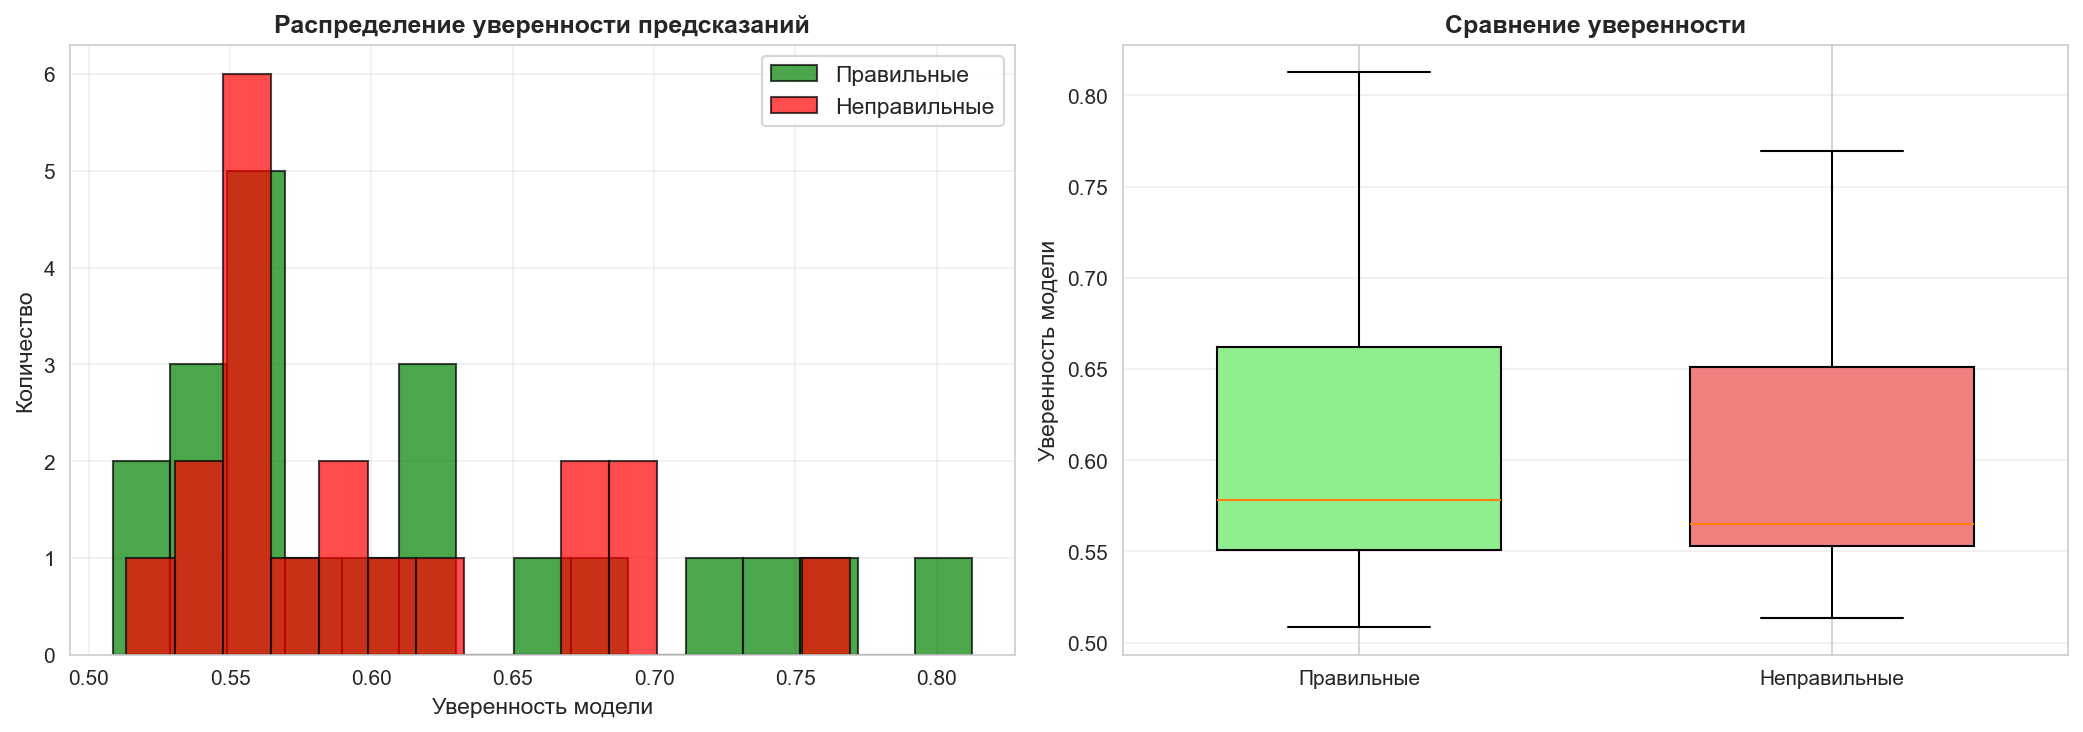
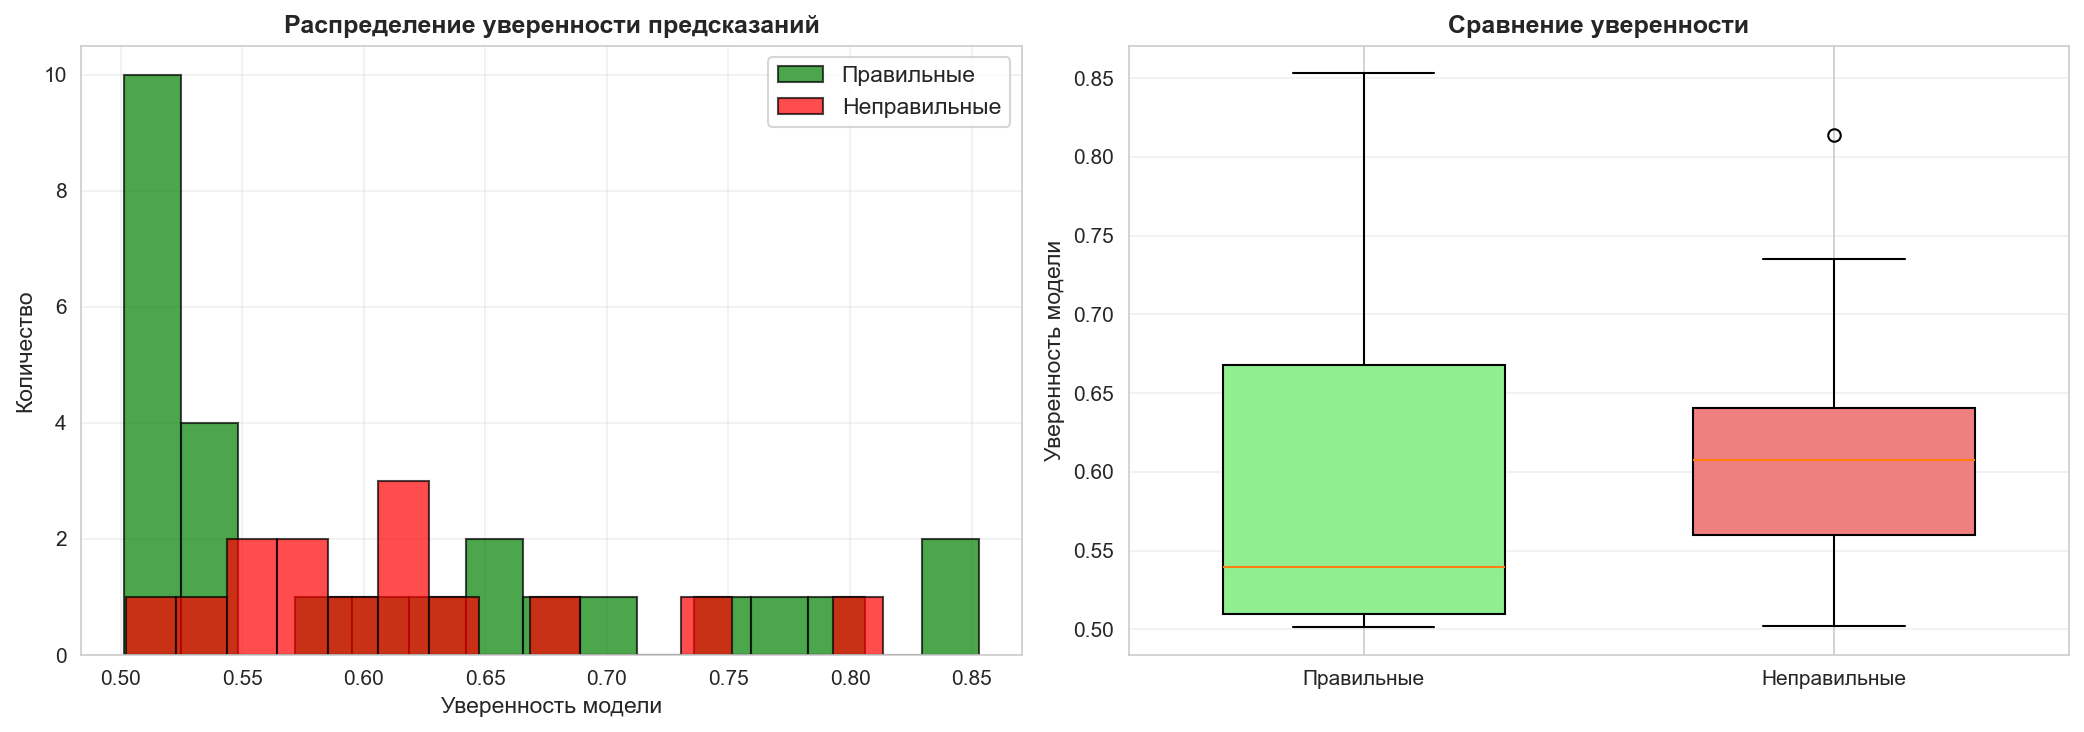
Обновить графики и цифры анализа результатов после исправления

diff --git a/ОТЧЕТ.md b/ОТЧЕТ.md
@@ -211,27 +211,27 @@ Output (2 classes: dirty, cleaned)
 ![Confusion Matrix](_inspect/confusion_matrix.png)
 
 **Анализ:**
-- True Negatives (dirty → dirty): 9
-- False Positives (dirty → cleaned): 11
-- False Negatives (cleaned → dirty): 8  
-- True Positives (cleaned → cleaned): 12
+- True Negatives (dirty → dirty): 8
+- False Positives (dirty → cleaned): 12
+- False Negatives (cleaned → dirty): 2  
+- True Positives (cleaned → cleaned): 18
 
 **Выводы:**
-- Модель немного лучше распознает чистые тарелки (recall=60%)
-- Для грязных тарелок recall=45% - модель чаще ошибается
-- Precision примерно одинаковая для обоих классов (~52%)
+- Модель заметно лучше распознает чистые тарелки (recall=90%)
+- Для грязных тарелок recall=40% - модель часто принимает их за чистые
+- Precision выше для грязных тарелок (80%), чем для чистых (60%)
 
 ### 6.3 Детальный отчет по классификации
 
 ```
               precision    recall  f1-score   support
 
-       dirty      0.529     0.450     0.486        20
-     cleaned      0.522     0.600     0.558        20
+       dirty      0.800     0.400     0.533        20
+     cleaned      0.600     0.900     0.720        20
 
-    accuracy                          0.525        40
-   macro avg      0.526     0.525     0.522        40
-weighted avg      0.526     0.525     0.522        40
+    accuracy                          0.650        40
+   macro avg      0.700     0.650     0.627        40
+weighted avg      0.700     0.650     0.627        40
 ```
 
 ### 6.4 Распределение уверенности предсказаний
@@ -239,8 +239,8 @@ weighted avg      0.526     0.525     0.522        40
 ![Распределение уверенности](_inspect/confidence_distribution.png)
 
 **Статистика:**
-- Средняя уверенность (правильные предсказания): 0.611
-- Средняя уверенность (неправильные предсказания): 0.601
+- Средняя уверенность (правильные предсказания): 0.604
+- Средняя уверенность (неправильные предсказания): 0.614
 
 **Выводы:**
 - Модель не очень уверена в своих предсказаниях (confidence ~60%)
@@ -255,7 +255,7 @@ weighted avg      0.526     0.525     0.522        40
 
 ![Ошибки модели](_inspect/error_examples.png)
 
-**Количество ошибок:** 19 из 40 (47.5%)
+**Количество ошибок:** 14 из 40 (35%)
 
 ### 7.2 Типичные ошибки
 

diff --git a/README.md b/README.md
@@ -161,12 +161,17 @@ python platesv2_baseline.py [OPTIONS]
 
 ```bash
 python eda.py [--zip-path PATH] [--output-dir PATH]
-python analyze_results.py [--zip-path PATH] [--output-dir PATH] [--weights {imagenet,none}]
+python analyze_results.py [--zip-path PATH] [--output-dir PATH] [параметры обучения]
 
 Опции:
   --zip-path PATH              Путь к plates.zip (default: ../platesv2/plates.zip)
   --output-dir PATH            Папка для графиков (default: _inspect/)
 ```
+
+`analyze_results.py` обучает модели той же кросс-валидацией, что и
+`platesv2_baseline.py`, и принимает те же параметры обучения (`--epochs`,
+`--folds`, `--seed` и т.д.), поэтому анализ относится к тем же моделям,
+которые формируют `submission.csv`.
 
 ### Примеры использования
 
@@ -239,10 +244,10 @@ python platesv2_baseline.py --image-size 224 --batch-size 8
 ```
               precision    recall  f1-score   support
 
-       dirty      0.529     0.450     0.486        20
-     cleaned      0.522     0.600     0.558        20
+       dirty      0.800     0.400     0.533        20
+     cleaned      0.600     0.900     0.720        20
 
-    accuracy                          0.525        40
+    accuracy                          0.650        40
 ```
 
 ## Визуализации
